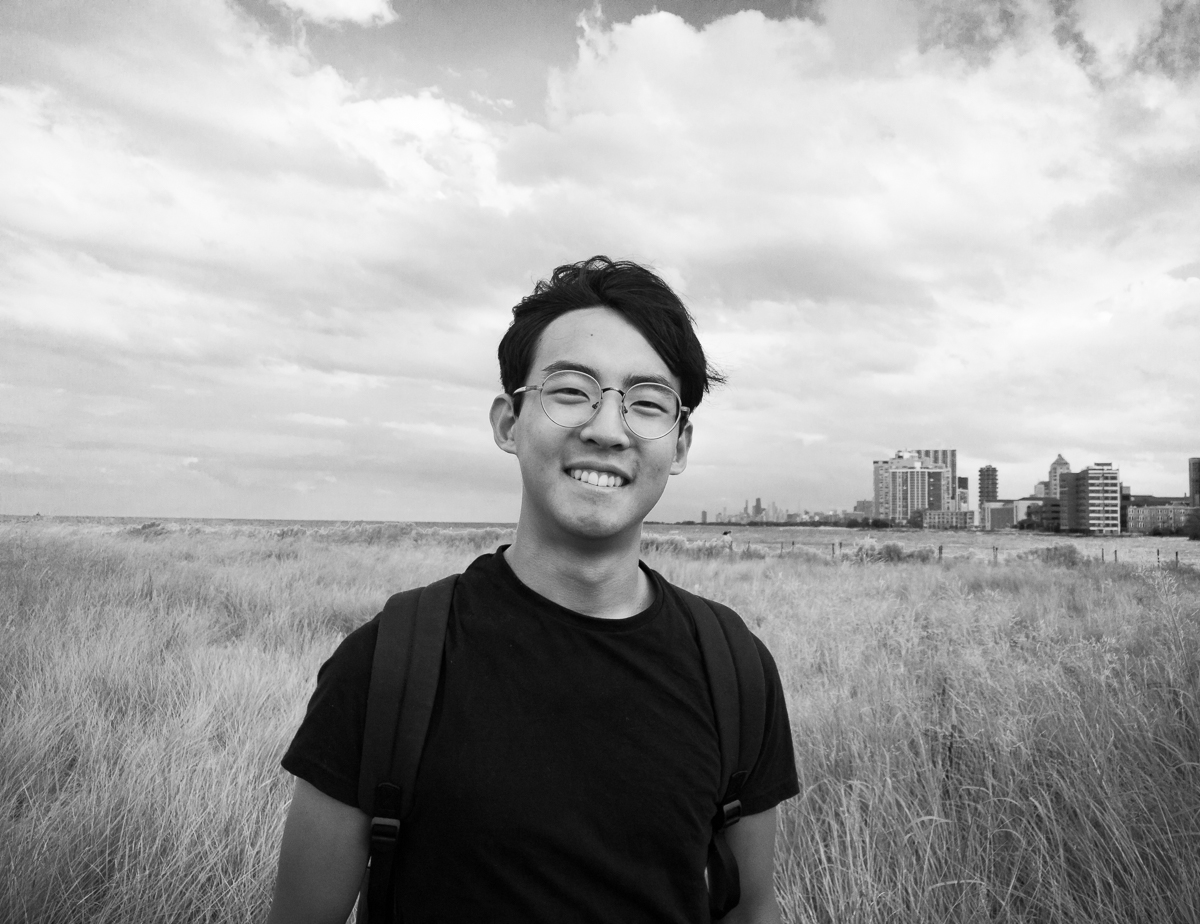
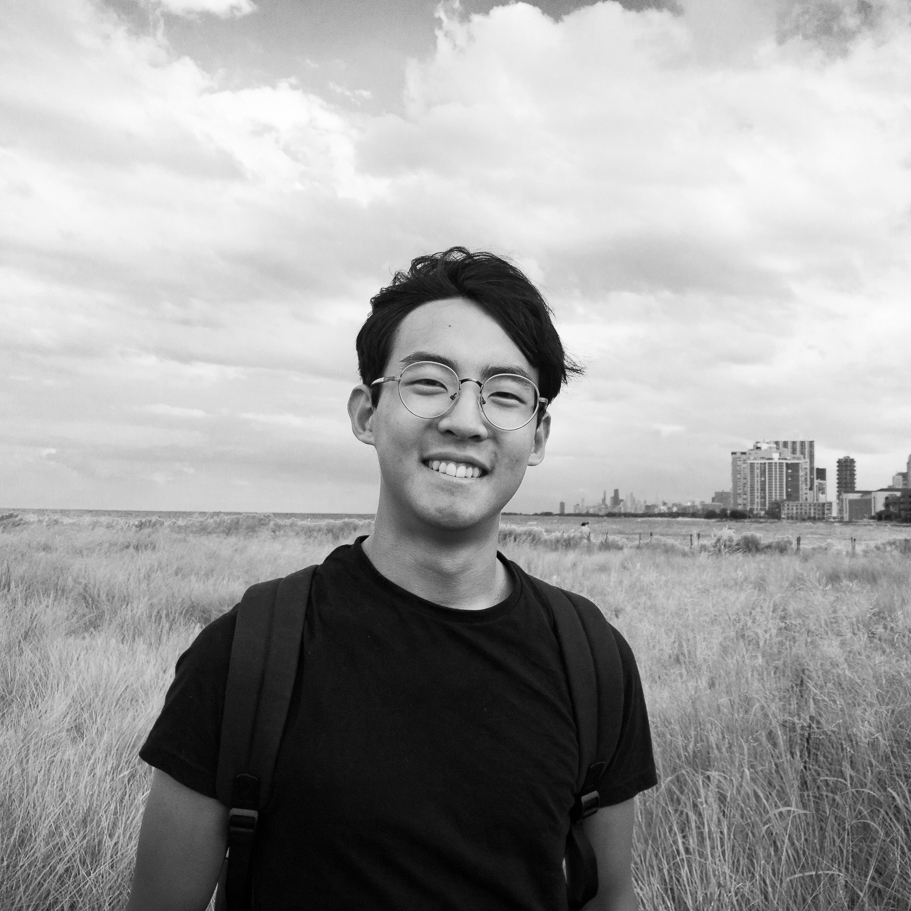
Update

diff --git a/css/styles.css b/css/styles.css
@@ -1,7 +1,8 @@
 * {
   margin: 0;
   padding: 0;
-  font-family: 'proxima-nova';
+  font-family: 'neue-haas-grotesk-display';
+  letter-spacing: .015em;
 }
 
 a {
@@ -14,9 +15,26 @@ html {
   font-size: 16px;
 }
 
+body {
+  display: -webkit-box;
+  display: -ms-flexbox;
+  display: flex;
+  -webkit-box-orient: vertical;
+  -webkit-box-direction: normal;
+      -ms-flex-direction: column;
+          flex-direction: column;
+  -webkit-box-pack: start;
+      -ms-flex-pack: start;
+          justify-content: flex-start;
+  -webkit-box-align: center;
+      -ms-flex-align: center;
+          align-items: center;
+}
+
 #header {
   position: fixed;
   width: 100%;
+  max-width: 1200px;
   height: 100px;
   display: -webkit-box;
   display: -ms-flexbox;
@@ -33,11 +51,12 @@ html {
           justify-content: space-between;
   -webkit-backdrop-filter: blur(20px);
           backdrop-filter: blur(20px);
+  margin: 0 auto;
 }
 
 #header .logo {
   height: 46px;
-  margin-left: 40px;
+  margin-left: 60px;
 }
 
 #header .links {
@@ -72,26 +91,21 @@ html {
   -webkit-box-align: center;
       -ms-flex-align: center;
           align-items: center;
-}
-
-#header .links a .dot {
-  position: absolute;
-  margin-top: 20px;
-  height: 5px;
-  width: 5px;
-  background: #000;
-  border-radius: 2.5px;
-  -webkit-transform: scale(0);
-          transform: scale(0);
-  -webkit-transition-duration: .3s;
-          transition-duration: .3s;
-  -webkit-transform-origin: bottom;
-          transform-origin: bottom;
-}
-
-#header .links a:hover .dot {
-  -webkit-transform: scale(1);
-          transform: scale(1);
+  /**
+            .dot {
+                position: absolute;
+                margin-top: 20px;
+                height: 5px;
+                width: 5px;
+                background: #000;
+                border-radius: 2.5px;
+                transform: scale(0);
+                transition-duration: .3s;
+                transform-origin: bottom;
+            }
+            &:hover .dot {
+                transform: scale(1);
+            }8**/
 }
 
 #header .links .selected {

diff --git a/css/styles.scss b/css/styles.scss
@@ -1,7 +1,8 @@
 * {
     margin: 0;
     padding: 0;
-    font-family: 'proxima-nova';
+    font-family: 'neue-haas-grotesk-display';
+    letter-spacing: .015em;
 }
 
 a {
@@ -13,19 +14,27 @@ html {
     overflow-x: hidden;
     font-size: 16px;
 }
+body {
+    display: flex;
+    flex-direction: column;
+    justify-content: flex-start;
+    align-items: center;
+}
 
 #header {
     position: fixed;
     width: 100%;
+    max-width: 1200px;
     height: 100px;
     display: flex;
     flex-direction: row;
     align-items: center;
     justify-content: space-between;
     backdrop-filter: blur(20px);
+    margin: 0 auto;
     .logo {
         height: 46px;
-        margin-left: 40px;
+        margin-left: 60px;
     }
     .links {
         display: flex;
@@ -39,6 +48,7 @@ html {
             flex-direction: column;
             justify-content: center;
             align-items: center;
+            /**
             .dot {
                 position: absolute;
                 margin-top: 20px;
@@ -52,7 +62,7 @@ html {
             }
             &:hover .dot {
                 transform: scale(1);
-            }
+            }8**/
         }
         .selected {
             opacity: .5;

diff --git a/css/resume.scss b/css/resume.scss
@@ -1,10 +1,12 @@
 #title {
-    font-size: 5em;
+    font-size: 4em;
     font-weight: 400;
-    margin-bottom: 60px;
+    width: calc(100% - 120px);
+    margin: 0 60px 60px 60px;
 }
 section {
-    width: 100%;
+    width: calc(100% - 120px);
+    margin: 0 60px;
     display: flex;
     flex-direction: row;
     justify-content: flex-start;
@@ -14,7 +16,7 @@ section {
         width: 25%;
         margin-right: 5%;
         h1 {
-            font-size: 1.75em;
+            font-size: 1.5em;
             font-weight: 400;
             margin-bottom: 10px;
         }
@@ -50,20 +52,11 @@ section {
 }
 hr {
     border: .5px solid black;
-    margin: 50px 0;
+    width: calc(100% - 120px);
+    margin: 50px 60px;
 }
 #wrap {
     padding: 180px 0;
-    width: 100%;
-    max-width: 1000px;
-    margin: 0 auto;
-}
-
-@media screen and (max-width: 1150px) {
-    #wrap {
-        width: calc(100% - 80px);
-        margin: 0 40px;
-    }
 }
 @media screen and (max-width: 900px) {
     section {

diff --git a/css/resume.css b/css/resume.css
@@ -1,11 +1,13 @@
 #title {
-  font-size: 5em;
+  font-size: 4em;
   font-weight: 400;
-  margin-bottom: 60px;
+  width: calc(100% - 120px);
+  margin: 0 60px 60px 60px;
 }
 
 section {
-  width: 100%;
+  width: calc(100% - 120px);
+  margin: 0 60px;
   display: -webkit-box;
   display: -ms-flexbox;
   display: flex;
@@ -27,7 +29,7 @@ section .title {
 }
 
 section .title h1 {
-  font-size: 1.75em;
+  font-size: 1.5em;
   font-weight: 400;
   margin-bottom: 10px;
 }
@@ -76,21 +78,12 @@ section .description-with-col .col2 {
 
 hr {
   border: .5px solid black;
-  margin: 50px 0;
+  width: calc(100% - 120px);
+  margin: 50px 60px;
 }
 
 #wrap {
   padding: 180px 0;
-  width: 100%;
-  max-width: 1000px;
-  margin: 0 auto;
-}
-
-@media screen and (max-width: 1150px) {
-  #wrap {
-    width: calc(100% - 80px);
-    margin: 0 40px;
-  }
 }
 
 @media screen and (max-width: 900px) {

diff --git a/css/home.css b/css/home.css
@@ -12,23 +12,24 @@ section {
   -webkit-box-pack: justify;
       -ms-flex-pack: justify;
           justify-content: space-between;
-  -webkit-box-align: start;
-      -ms-flex-align: start;
-          align-items: flex-start;
+  -webkit-box-align: center;
+      -ms-flex-align: center;
+          align-items: center;
   margin-bottom: 120px;
 }
 
 section img {
-  width: calc(50% - 30px);
-  height: auto;
+  width: 300px;
+  height: 300px;
+  border-radius: 50%;
 }
 
 section .text {
-  width: calc(50% - 30px);
+  width: calc(100% - 350px);
 }
 
 section .text h1 {
-  font-size: 3em;
+  font-size: 1em;
   font-weight: 400;
   margin-bottom: 16px;
 }
@@ -57,7 +58,9 @@ section .text p {
   }
   section img {
     width: 100%;
-    margin-bottom: 60px;
+    height: auto;
+    margin-bottom: 40px;
+    max-width: 300px;
   }
   section .text {
     width: 100%;

diff --git a/css/home.scss b/css/home.scss
@@ -5,16 +5,17 @@ section {
     display: flex;
     flex-direction: row;
     justify-content: space-between;
-    align-items: flex-start;
+    align-items: center;
     margin-bottom: 120px;
     img {
-        width: calc(50% - 30px);
-        height: auto;
+        width: 300px;
+        height: 300px;
+        border-radius: 50%;
     }
     .text {
-        width: calc(50% - 30px);
+        width: calc(100% - 350px);
         h1 {
-            font-size: 3em;
+            font-size: 1em;
             font-weight: 400;
             margin-bottom: 16px;
         }
@@ -36,7 +37,9 @@ section {
         margin-bottom: 120px;
         img {
             width: 100%;
-            margin-bottom: 60px;
+            height: auto;
+            margin-bottom: 40px;
+            max-width: 300px;
         }
         .text {
             width: 100%;

diff --git a/resume.html b/resume.html
@@ -7,7 +7,7 @@
     <title>John Yoon | Resume</title>
     <link rel="stylesheet" href="css/styles.css">
     <link rel="stylesheet" href="css/resume.css">
-    <link rel="stylesheet" href="https://use.typekit.net/fxc2rul.css">
+    <link rel="stylesheet" href="https://use.typekit.net/wed3sza.css">
     <link rel="icon" href="img/Favicon.png">
 </head>
 <body>

diff --git a/index.html b/index.html
@@ -7,7 +7,7 @@
     <title>John Yoon</title>
     <link rel="stylesheet" href="css/styles.css">
     <link rel="stylesheet" href="css/home.css">
-    <link rel="stylesheet" href="https://use.typekit.net/fxc2rul.css">
+    <link rel="stylesheet" href="https://use.typekit.net/wed3sza.css">
     <link rel="icon" href="img/Favicon.png">
 </head>
 <body>
